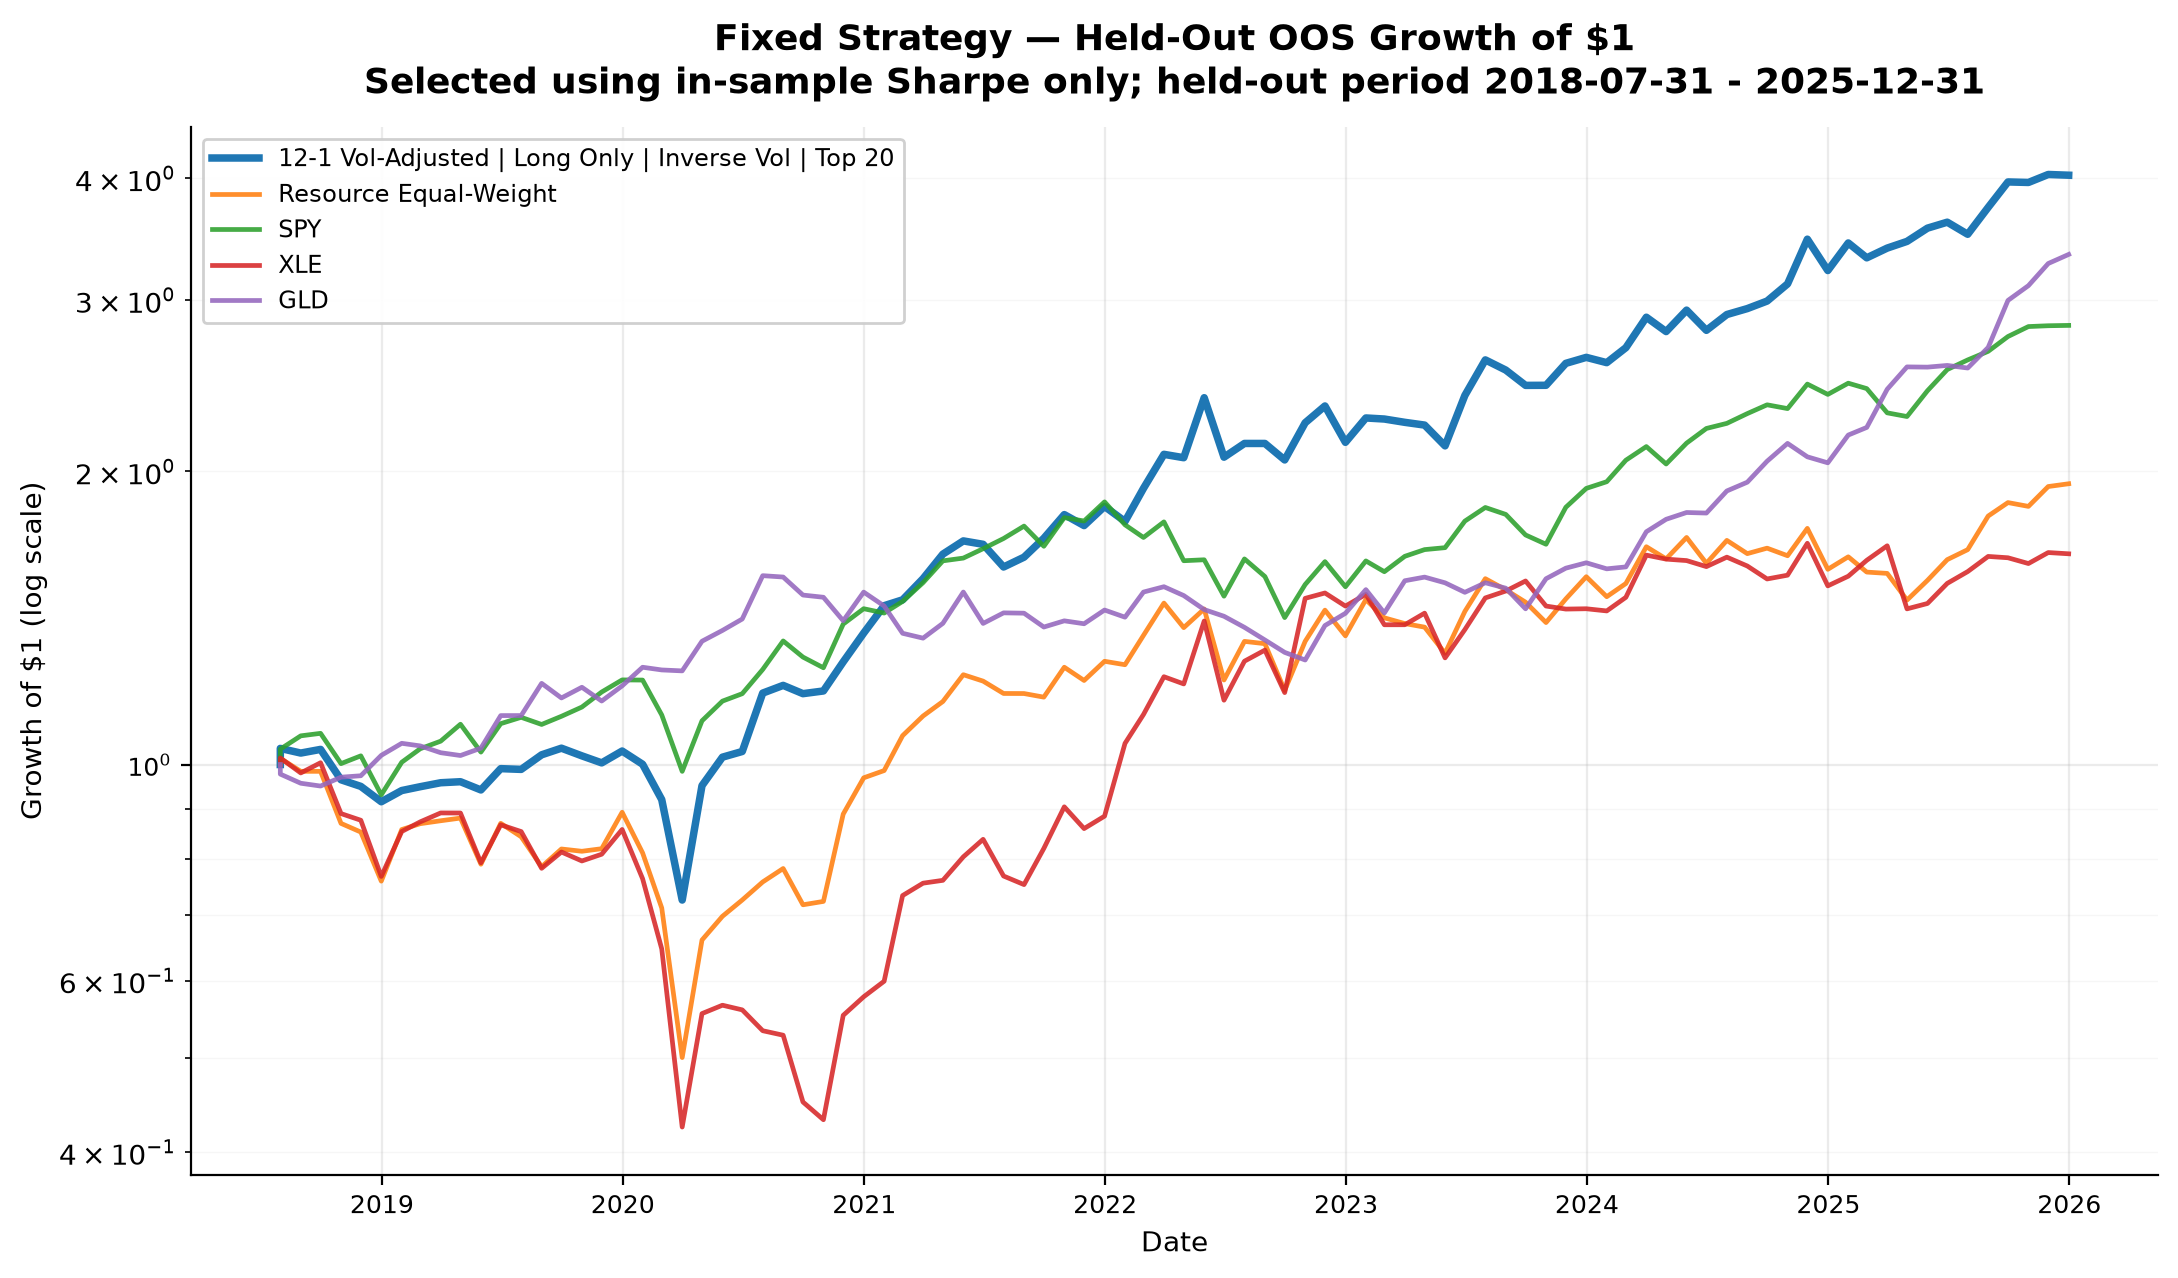
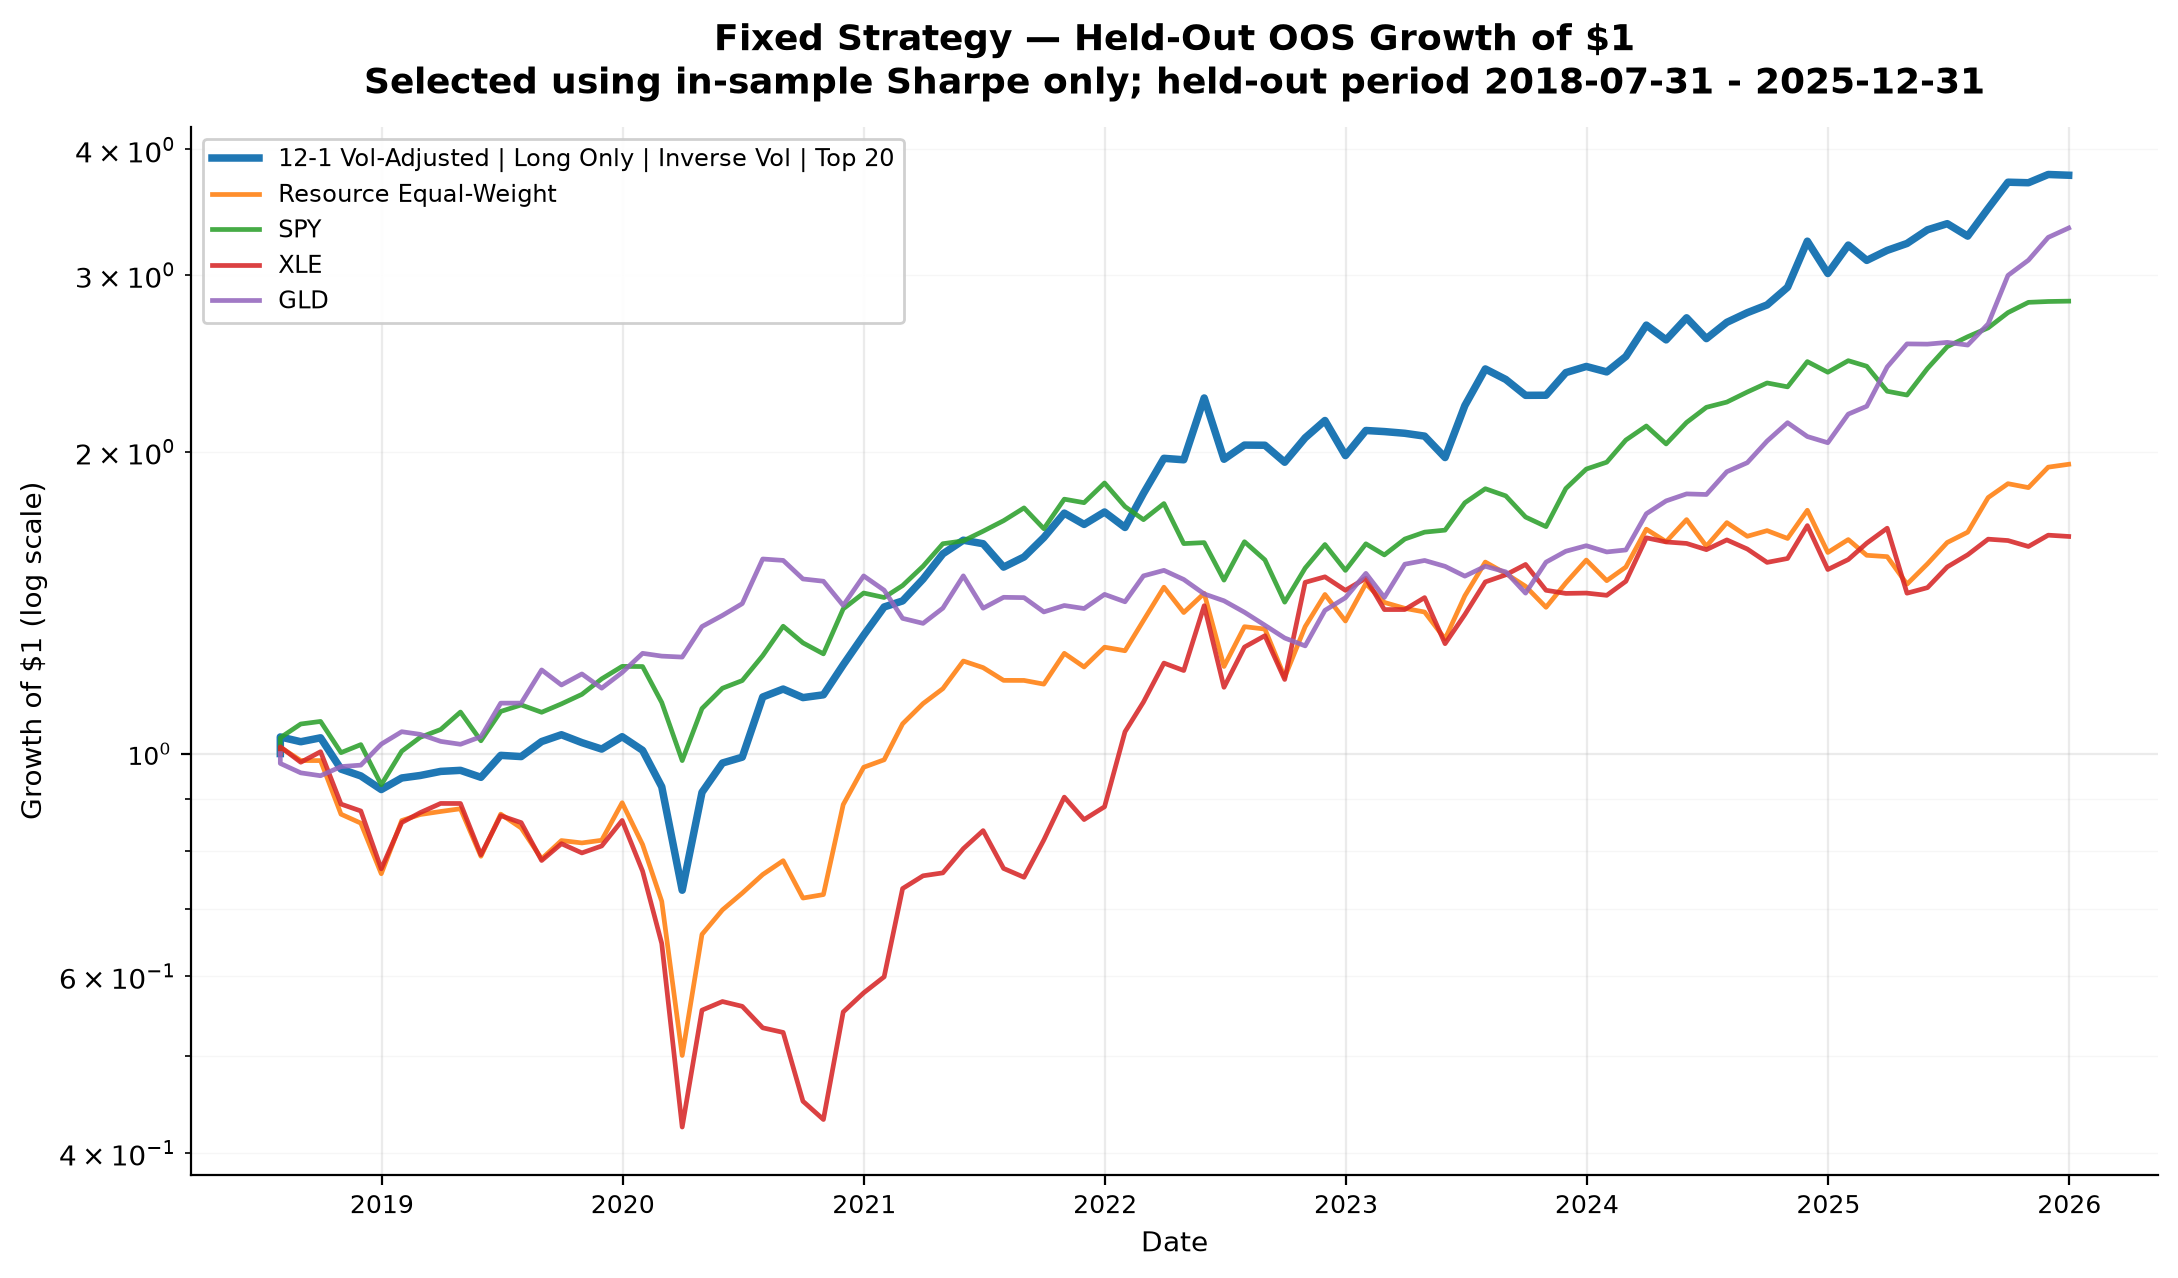
removed look-ahead bias

diff --git a/universe/crsp/integration.py b/universe/crsp/integration.py
@@ -60,7 +60,7 @@ def build_crsp_monthly_eligibility_table(monthly_returns, annual_universes):
         available_permnos = [permno for permno in annual_permnos if permno in table]
         table.loc[date, available_permnos] = True
 
-    return table & monthly_returns.notna()
+    return table
 
 
 def build_crsp_dynamic_universe_data(data_dir=CRSP_DATA_DIR):

diff --git a/README.md b/README.md
@@ -158,15 +158,15 @@ voladj6_12-1 | long_only | inverse_vol | top20
 
 **Held-Out Out-of-Sample Performance (2018-07-31 to 2025-12-31).** The fixed strategy was selected using in-sample Sharpe over 2001-01-31 to 2018-06-30 and then evaluated on the held-out period without re-selection.
 
-Headline primary OOS result: selected strategy `voladj6_12-1 | long_only | inverse_vol | top20`; annualized return 20.41%; Sharpe ratio 0.958; final value of $1 approximately $4.03.
+Headline primary OOS result: selected strategy `voladj6_12-1 | long_only | inverse_vol | top20`; annualized return 19.36%; Sharpe ratio 0.960; final value of $1 approximately $3.77.
 
 The held-out OOS period is `2018-07-31` through `2025-12-31`. This fixed specification produced approximately:
 
-- annualized return: 20.41%
-- annualized volatility: 21.96%
-- Sharpe ratio: 0.958
-- maximum drawdown: -30.16%
-- Calmar ratio: 0.677
+- annualized return: 19.36%
+- annualized volatility: 20.76%
+- Sharpe ratio: 0.960
+- maximum drawdown: -30.01%
+- Calmar ratio: 0.645
 
 Over the identical OOS dates, SPY produced approximately:
 
